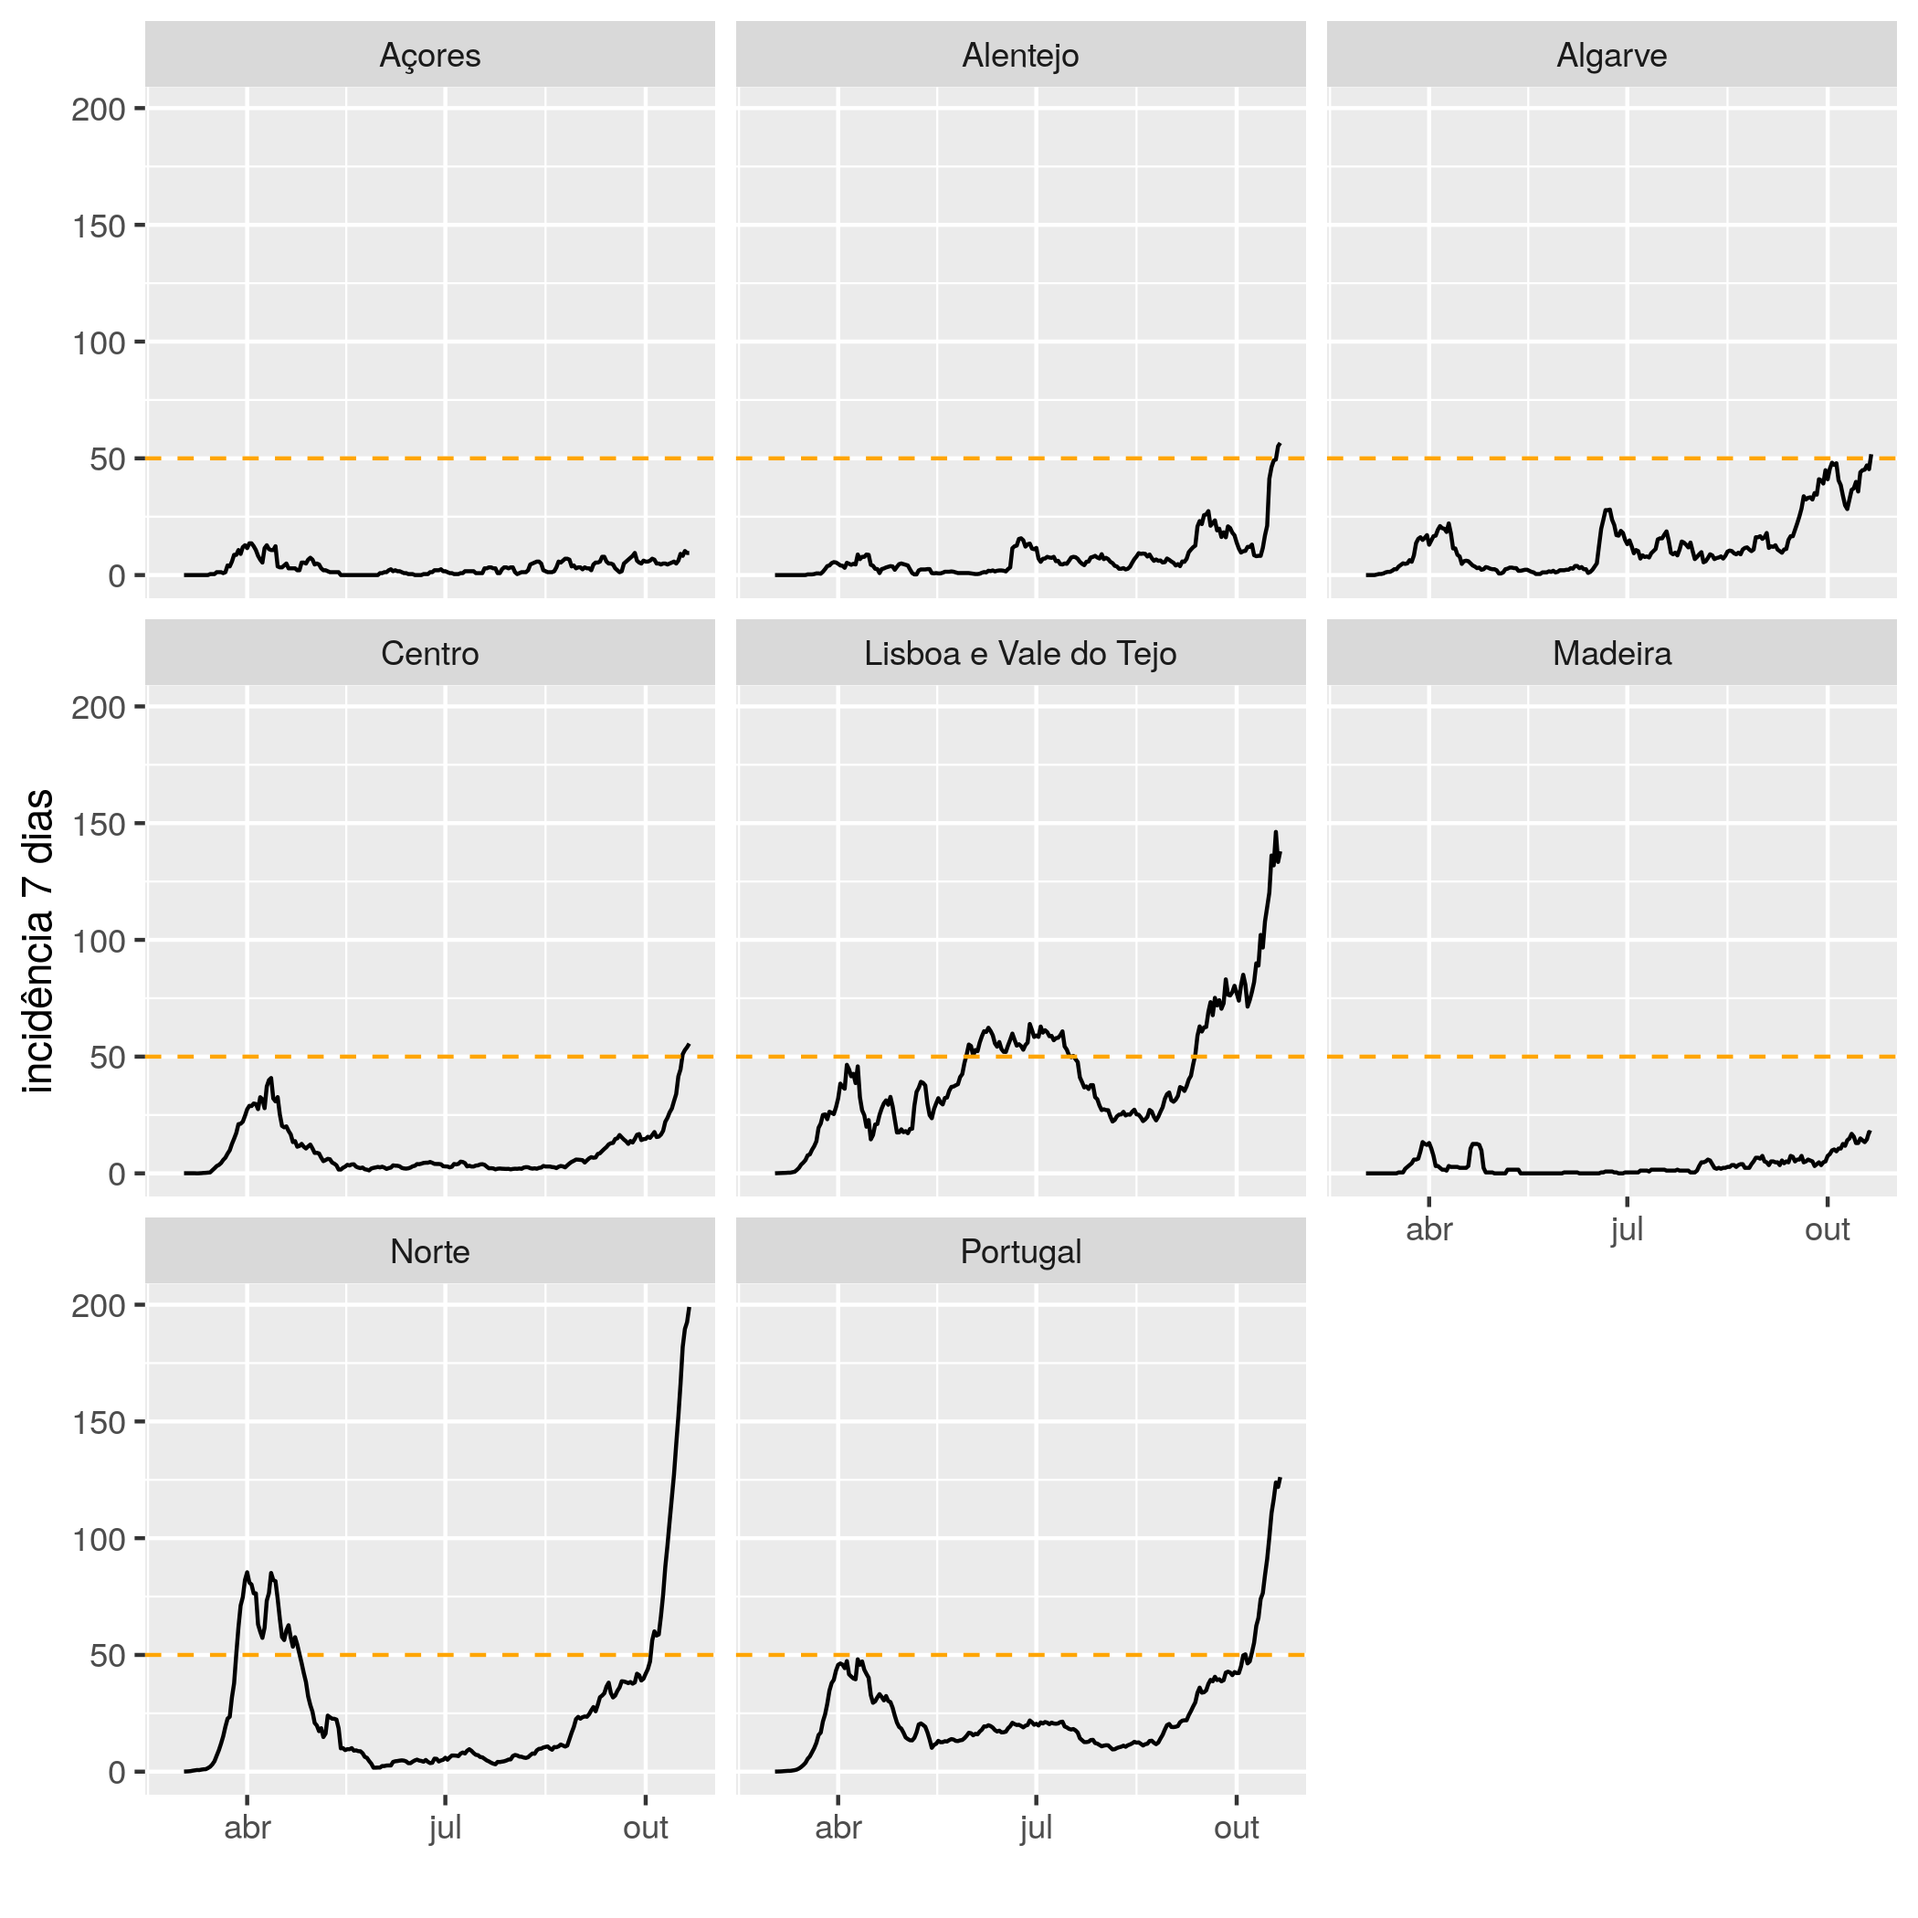
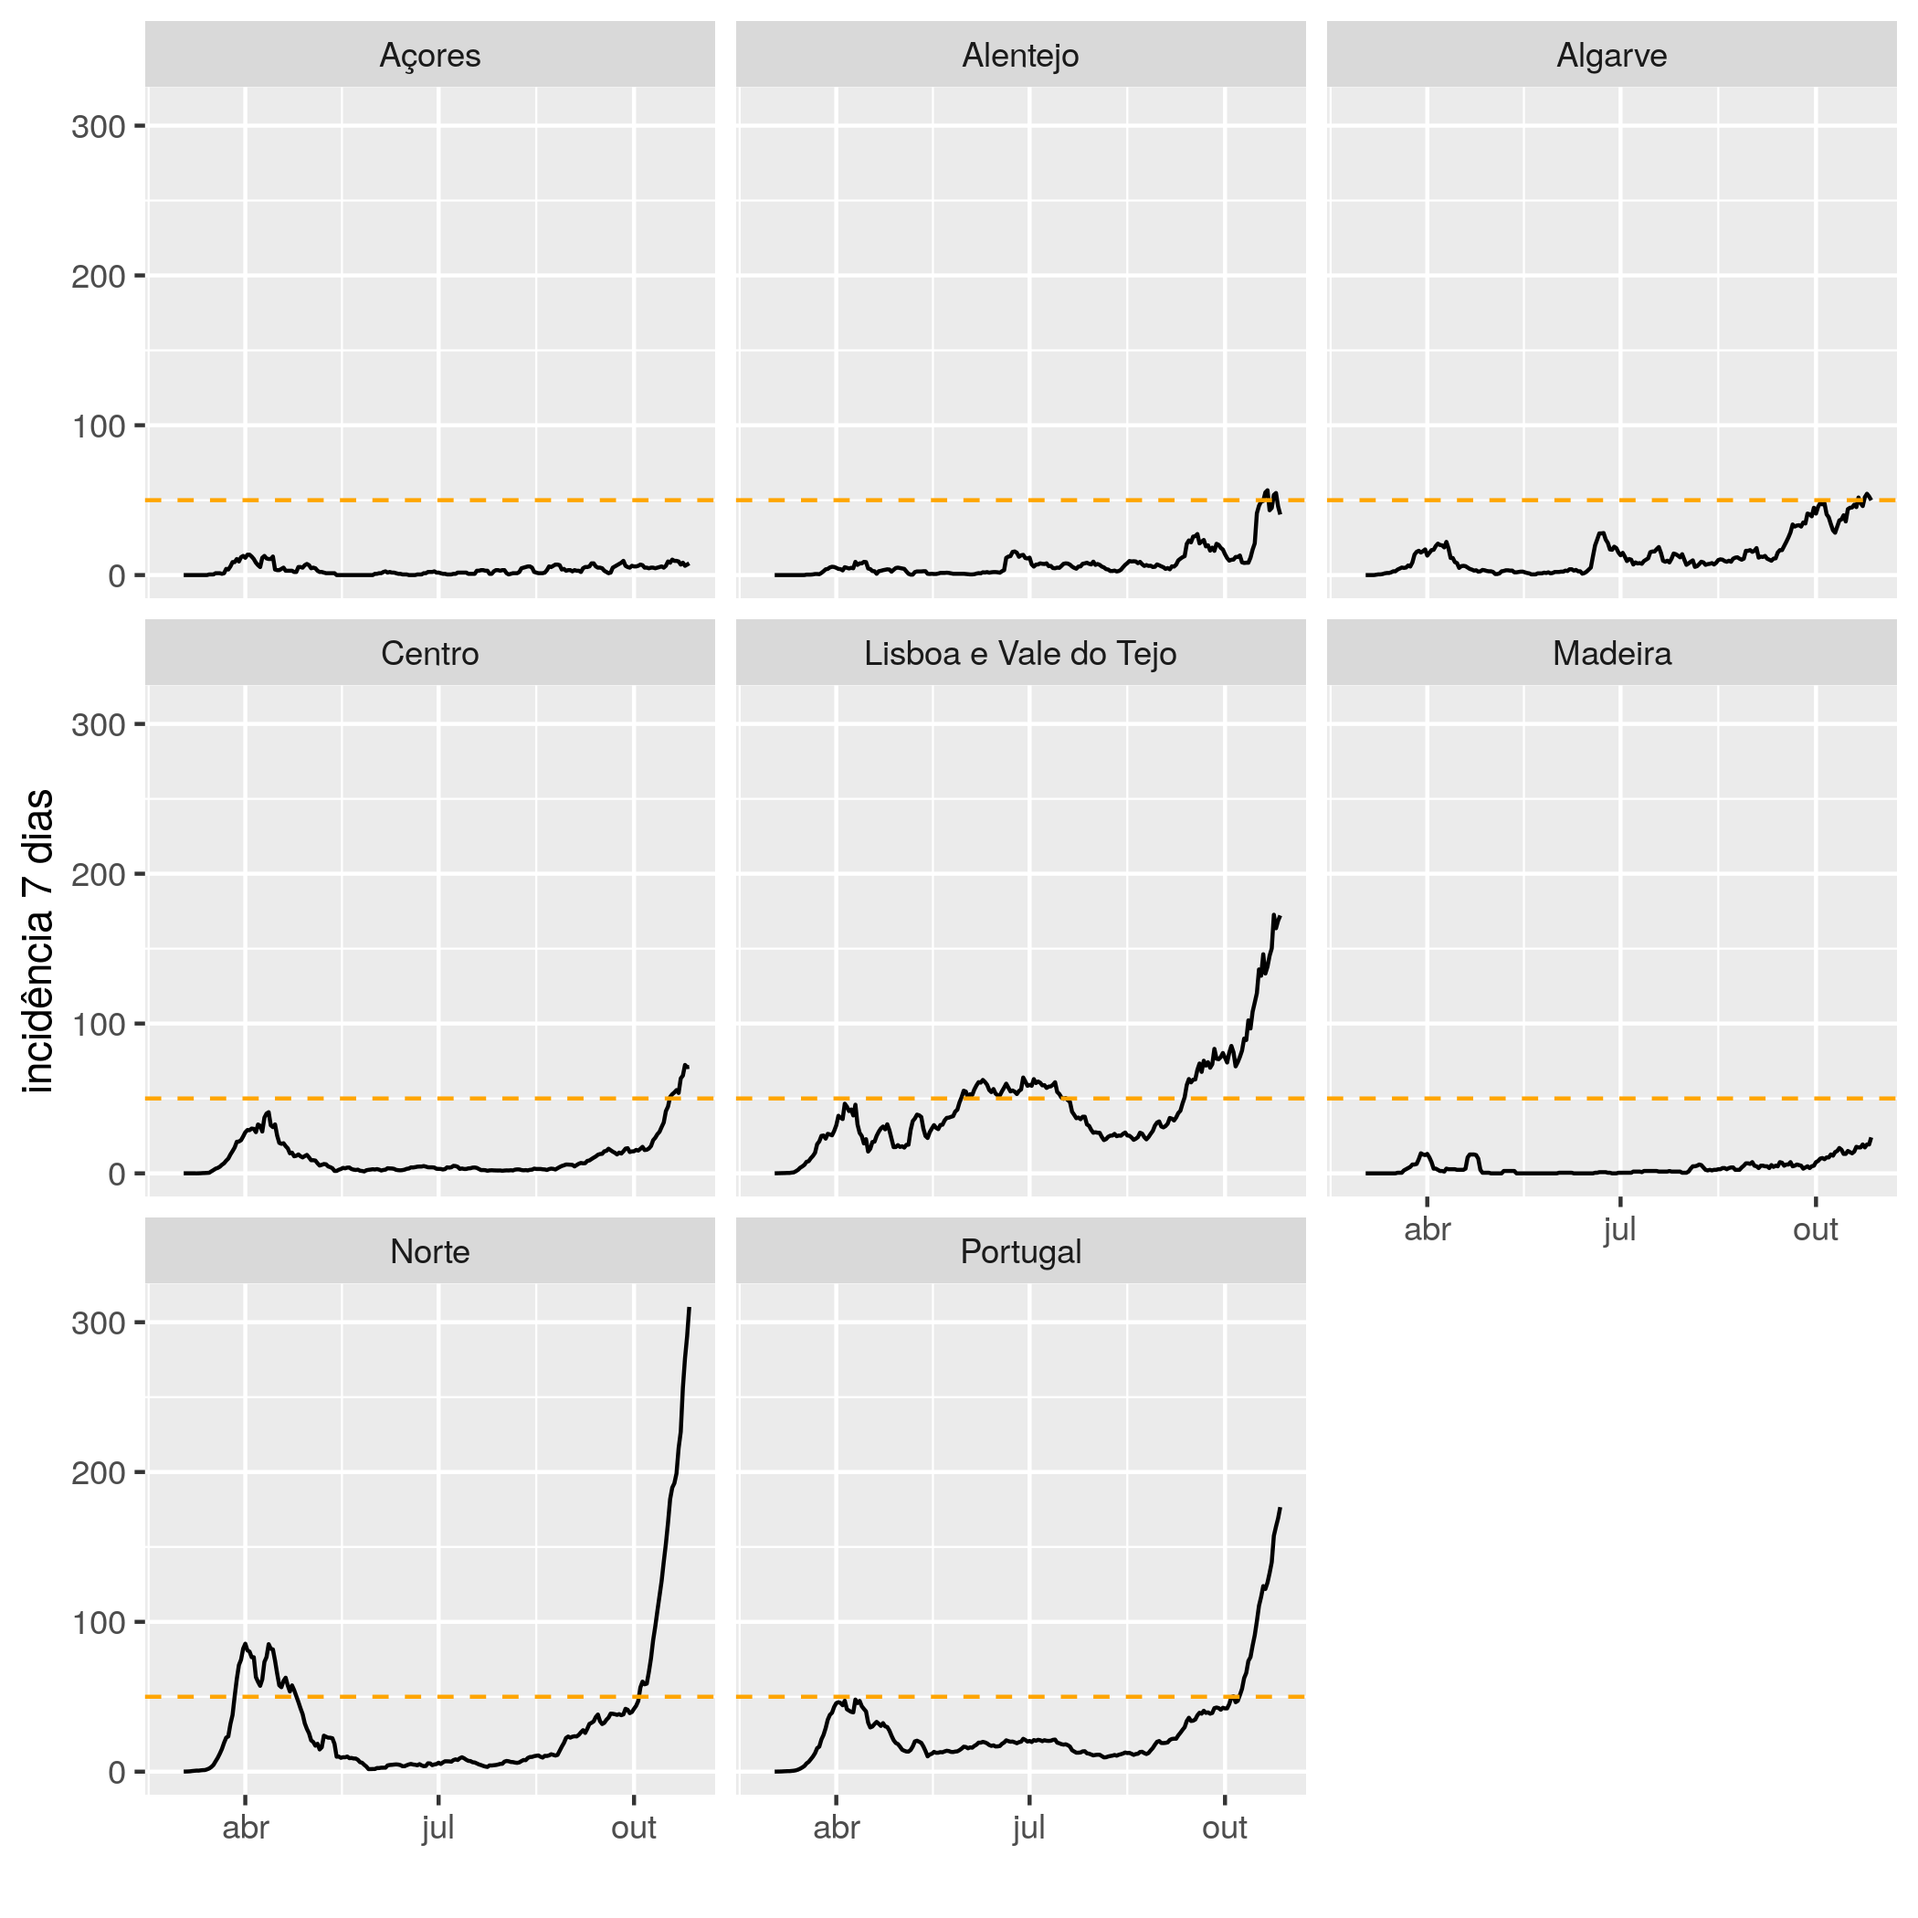
fim de semana

diff --git a/README.md b/README.md
@@ -1,7 +1,7 @@
 # Contexto
 A incidência por 100000 habitantes em 7 dias é o valor de referência para decretar regiões de risco pelas autoridades de saúde alemãs (valor charneira é 50, ie LVT já é região de risco). Gráficos atualizados diariamente. Para ajudar quem quer viajar para a Alemanha ou vir passar férias a Portugal.
 
-Dados mais recentes de 2020-10-21.
+Dados mais recentes de 2020-10-27.
 
 # Incidência por 100000 habitantes em 7 dias
 ## Últimos 30 dias
